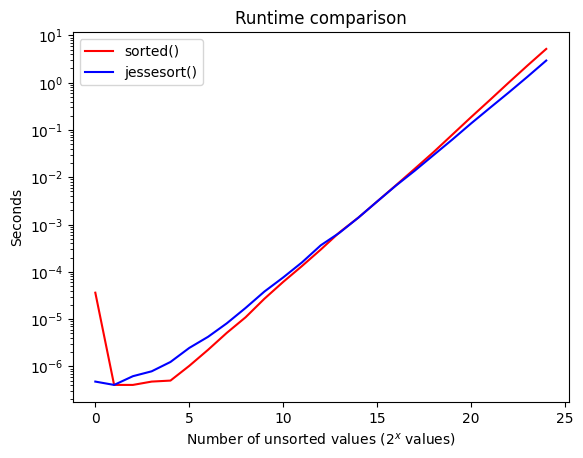
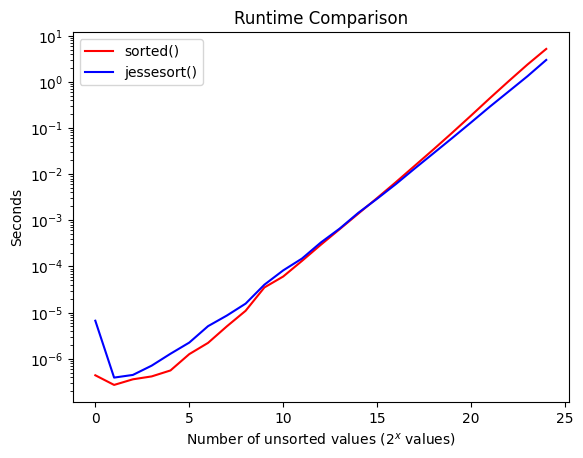
Added Powersort merging logic

diff --git a/src/jessesort/jesseSort.cpp b/src/jessesort/jesseSort.cpp
@@ -243,6 +243,76 @@ std::vector<int> mergePilesByPowersOf2(
     return pilesAscending[0];
 }
 
+// PowerSort merge policy with reduced copies
+std::vector<int> powerSortMerge(
+    std::vector<std::vector<int>>& pilesDescending,
+    std::vector<std::vector<int>>& pilesAscending) {
+
+    // Empty piles edge case
+    if (pilesDescending.empty() && pilesAscending.empty()) {
+        return pilesDescending[0];
+    }
+
+    // Make room for pilesDescending
+    pilesAscending.reserve(pilesDescending.size());
+    std::vector<std::vector<int>> stack;
+
+    // Merge and reverse descending half rainbow once outside loop, regardless of size
+    for (size_t i = 0; i + 1 < pilesDescending.size(); i += 2) {
+        pilesAscending.push_back(mergeTwoDescendingPiles(pilesDescending[i], pilesDescending[i + 1]));
+    }
+    // Handle odd pile by merging it with the last new pile if possible
+    if (pilesDescending.size() % 2 == 1) {
+        // Reverse order of last pile to make sure it's in ascending order
+        std::reverse(pilesDescending.back().begin(), pilesDescending.back().end());
+        if (!pilesAscending.empty()) {
+            pilesAscending.back() = mergeTwoAscendingPiles(pilesAscending.back(), pilesDescending.back());
+        } else {
+            pilesAscending.push_back(std::move(pilesDescending.back()));
+        }
+    }
+
+    // Empty or size 1 pilesAscending edge case
+    if (pilesAscending.empty()) {
+        return {};
+    }
+    if (pilesAscending.size() == 1) {
+        return pilesAscending[0];
+    }
+
+    for (auto& run : pilesAscending) {
+    // for (auto it = pilesAscending.rbegin(); it != pilesAscending.rend(); ++it) {
+    //     auto& run = *it;
+        stack.push_back(std::move(run));
+
+        // Maintain weak heap property
+        while (stack.size() >= 3) {
+            auto& X = stack[stack.size() - 3];
+            auto& Y = stack[stack.size() - 2];
+            auto& Z = stack[stack.size() - 1];
+
+            if (X.size() <= Y.size() + Z.size()) {
+                // Merge X and Y in-place
+                Y = mergeTwoAscendingPiles(X, Y);
+                stack.erase(stack.end() - 3);  // Remove X
+            } else {
+                break;  // Weak heap property maintained
+            }
+        }
+    }
+
+    // Final merging phase
+    while (stack.size() > 1) {
+        stack[stack.size() - 2] = mergeTwoAscendingPiles(
+            stack[stack.size() - 2], 
+            stack[stack.size() - 1]
+        );
+        stack.pop_back();  // Remove last merged element
+    }
+
+    return stack.empty() ? std::vector<int>{} : std::move(stack[0]);  // Move final sorted array
+}
+
 // Helper function to find the first pile where the value can be placed
 int findDescendingPile(std::vector<std::vector<int>>& piles, int& mid, int value) {
     int low = 0, high = piles.size() - 1;
@@ -370,7 +440,12 @@ std::vector<int> jesseSort(std::vector<int>& arr) {
     // vs
 
     // Merge piles by length based on increasing max lengths in powers of 2
-    return mergePilesByPowersOf2(pilesDescending, pilesAscending);
+    // return mergePilesByPowersOf2(pilesDescending, pilesAscending);
+
+    // vs
+
+    // Powersort logic
+    return powerSortMerge(pilesDescending, pilesAscending);
 
     // vs
 

diff --git a/src/jessesort/main.cpp b/src/jessesort/main.cpp
@@ -207,8 +207,8 @@ int main() {
     auto arr2 = arr;
 
     auto start = std::chrono::high_resolution_clock::now();
-    std::vector<int> sortedArr = jesseSort(arr);
-    //jesseSort(arr);
+    //std::vector<int> sortedArr = jesseSort(arr);
+    jesseSort(arr);
     auto end = std::chrono::high_resolution_clock::now();
     std::cout << "JesseSort: " << std::chrono::duration<double>(end - start).count() << " seconds" << std::endl;
 

diff --git a/README.md b/README.md
@@ -19,12 +19,16 @@ It also beats std::sort() on various inputs with sorted subsequences:
 
 ```
 // Sawtooth input
-JesseSort: 0.194998 seconds
-std::sort: 0.404267 seconds
+JesseSort: 0.165182 seconds
+std::sort: 0.399023 seconds
 
 // Ascending values with 1% noise (repeated values)
-JesseSort: 0.121161 seconds
-std::sort: 0.466832 seconds
+JesseSort: 0.105145 seconds
+std::sort: 0.505686 seconds
+
+// Pyramid values (half ascending, half descending)
+JesseSort: 0.126481 seconds
+std::sort: 0.856716 seconds
 ```
 
 ## Setup
@@ -56,9 +60,9 @@ Play 2 games of Patience, one with descending stacks and one with ascending stac
 
 2. Merge Phase
 
-Merge all stacks until 1 remains. This currently utilizes Powersort's near-optimal merge strategy of grouping bands for merging by their lengths. We first merge any bands with lengths <= 2^1, then with lengths <= 2^2, 2^3, 2^4, etc.
+Merge all stacks until 1 remains. This currently utilizes Powersort's near-optimal merge strategy that considers 3 consecutive subarrays at a time. We check if merging Y and Z is beneficial before merging with X, preventing an unbalanced merge tree.
 
-NOTE: A faster merge policy (Huffman?) may replace this. Testing is underway. We also find naive adjacent merging sometimes surpasses Powersort merging logic, possibly due to the natural pattern of (roughly) sorted lengths produced by Patience Sort.
+NOTE: A faster merge policy (Huffman?) may replace this. Testing is underway!
 
 ## Preprint
 
